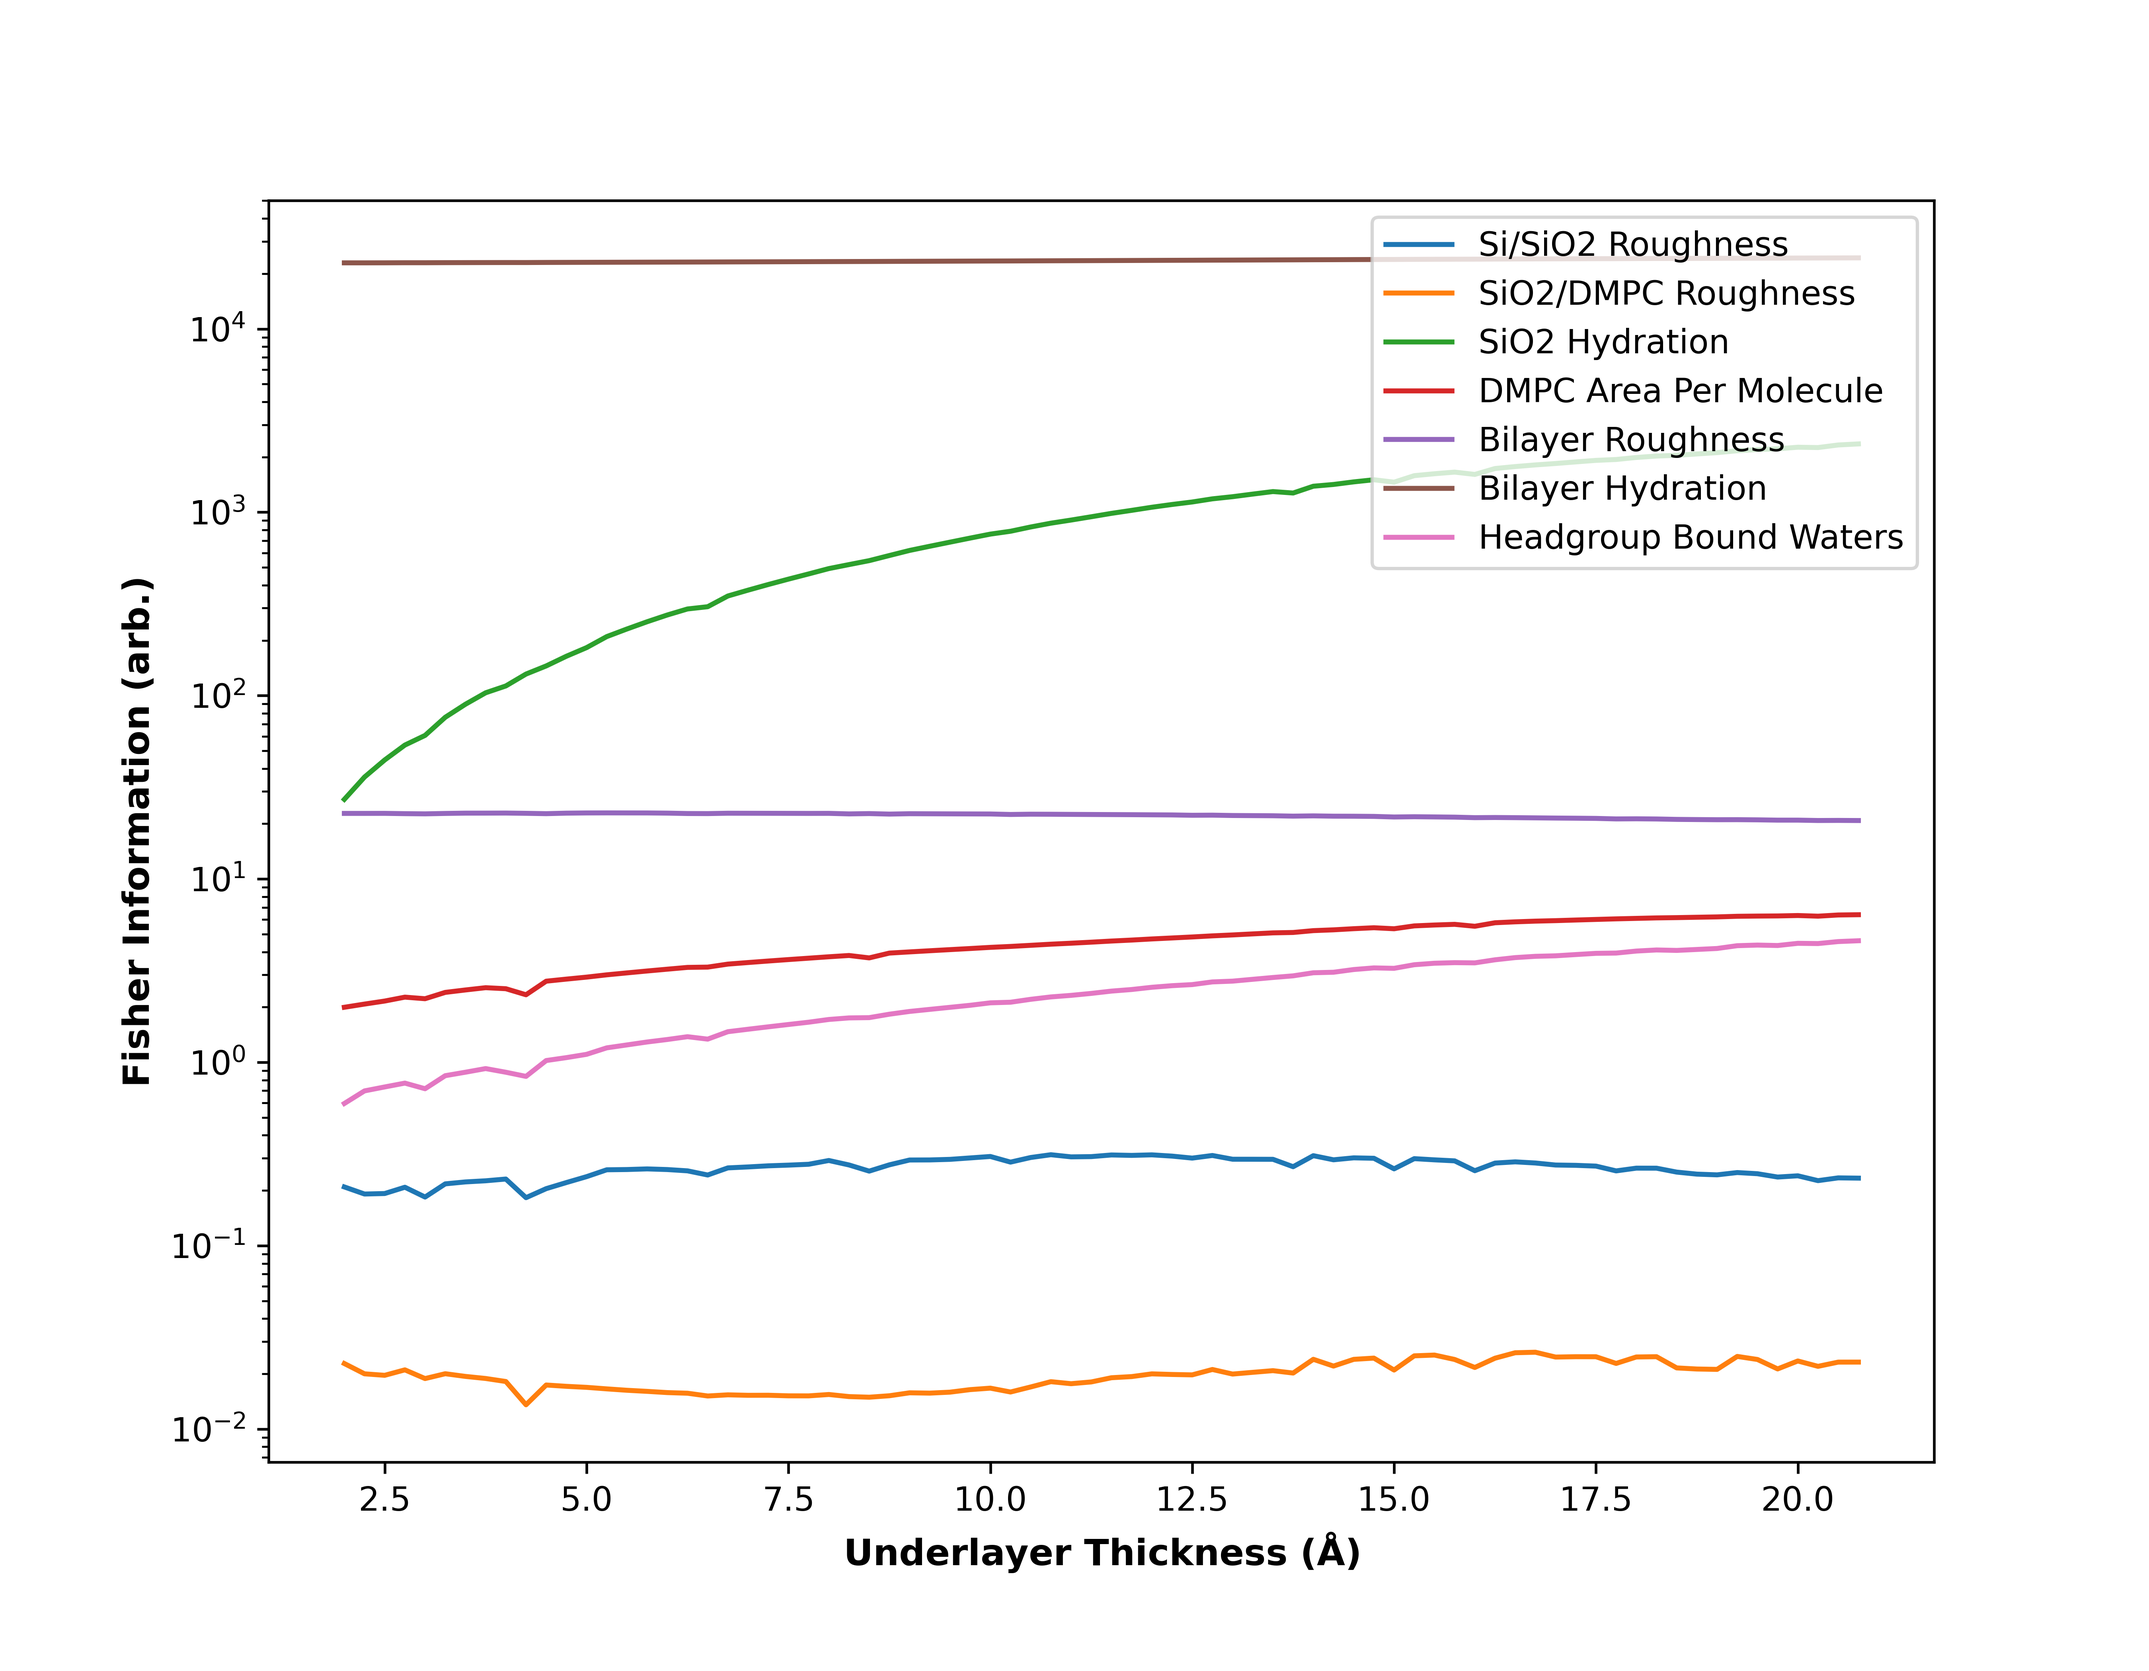
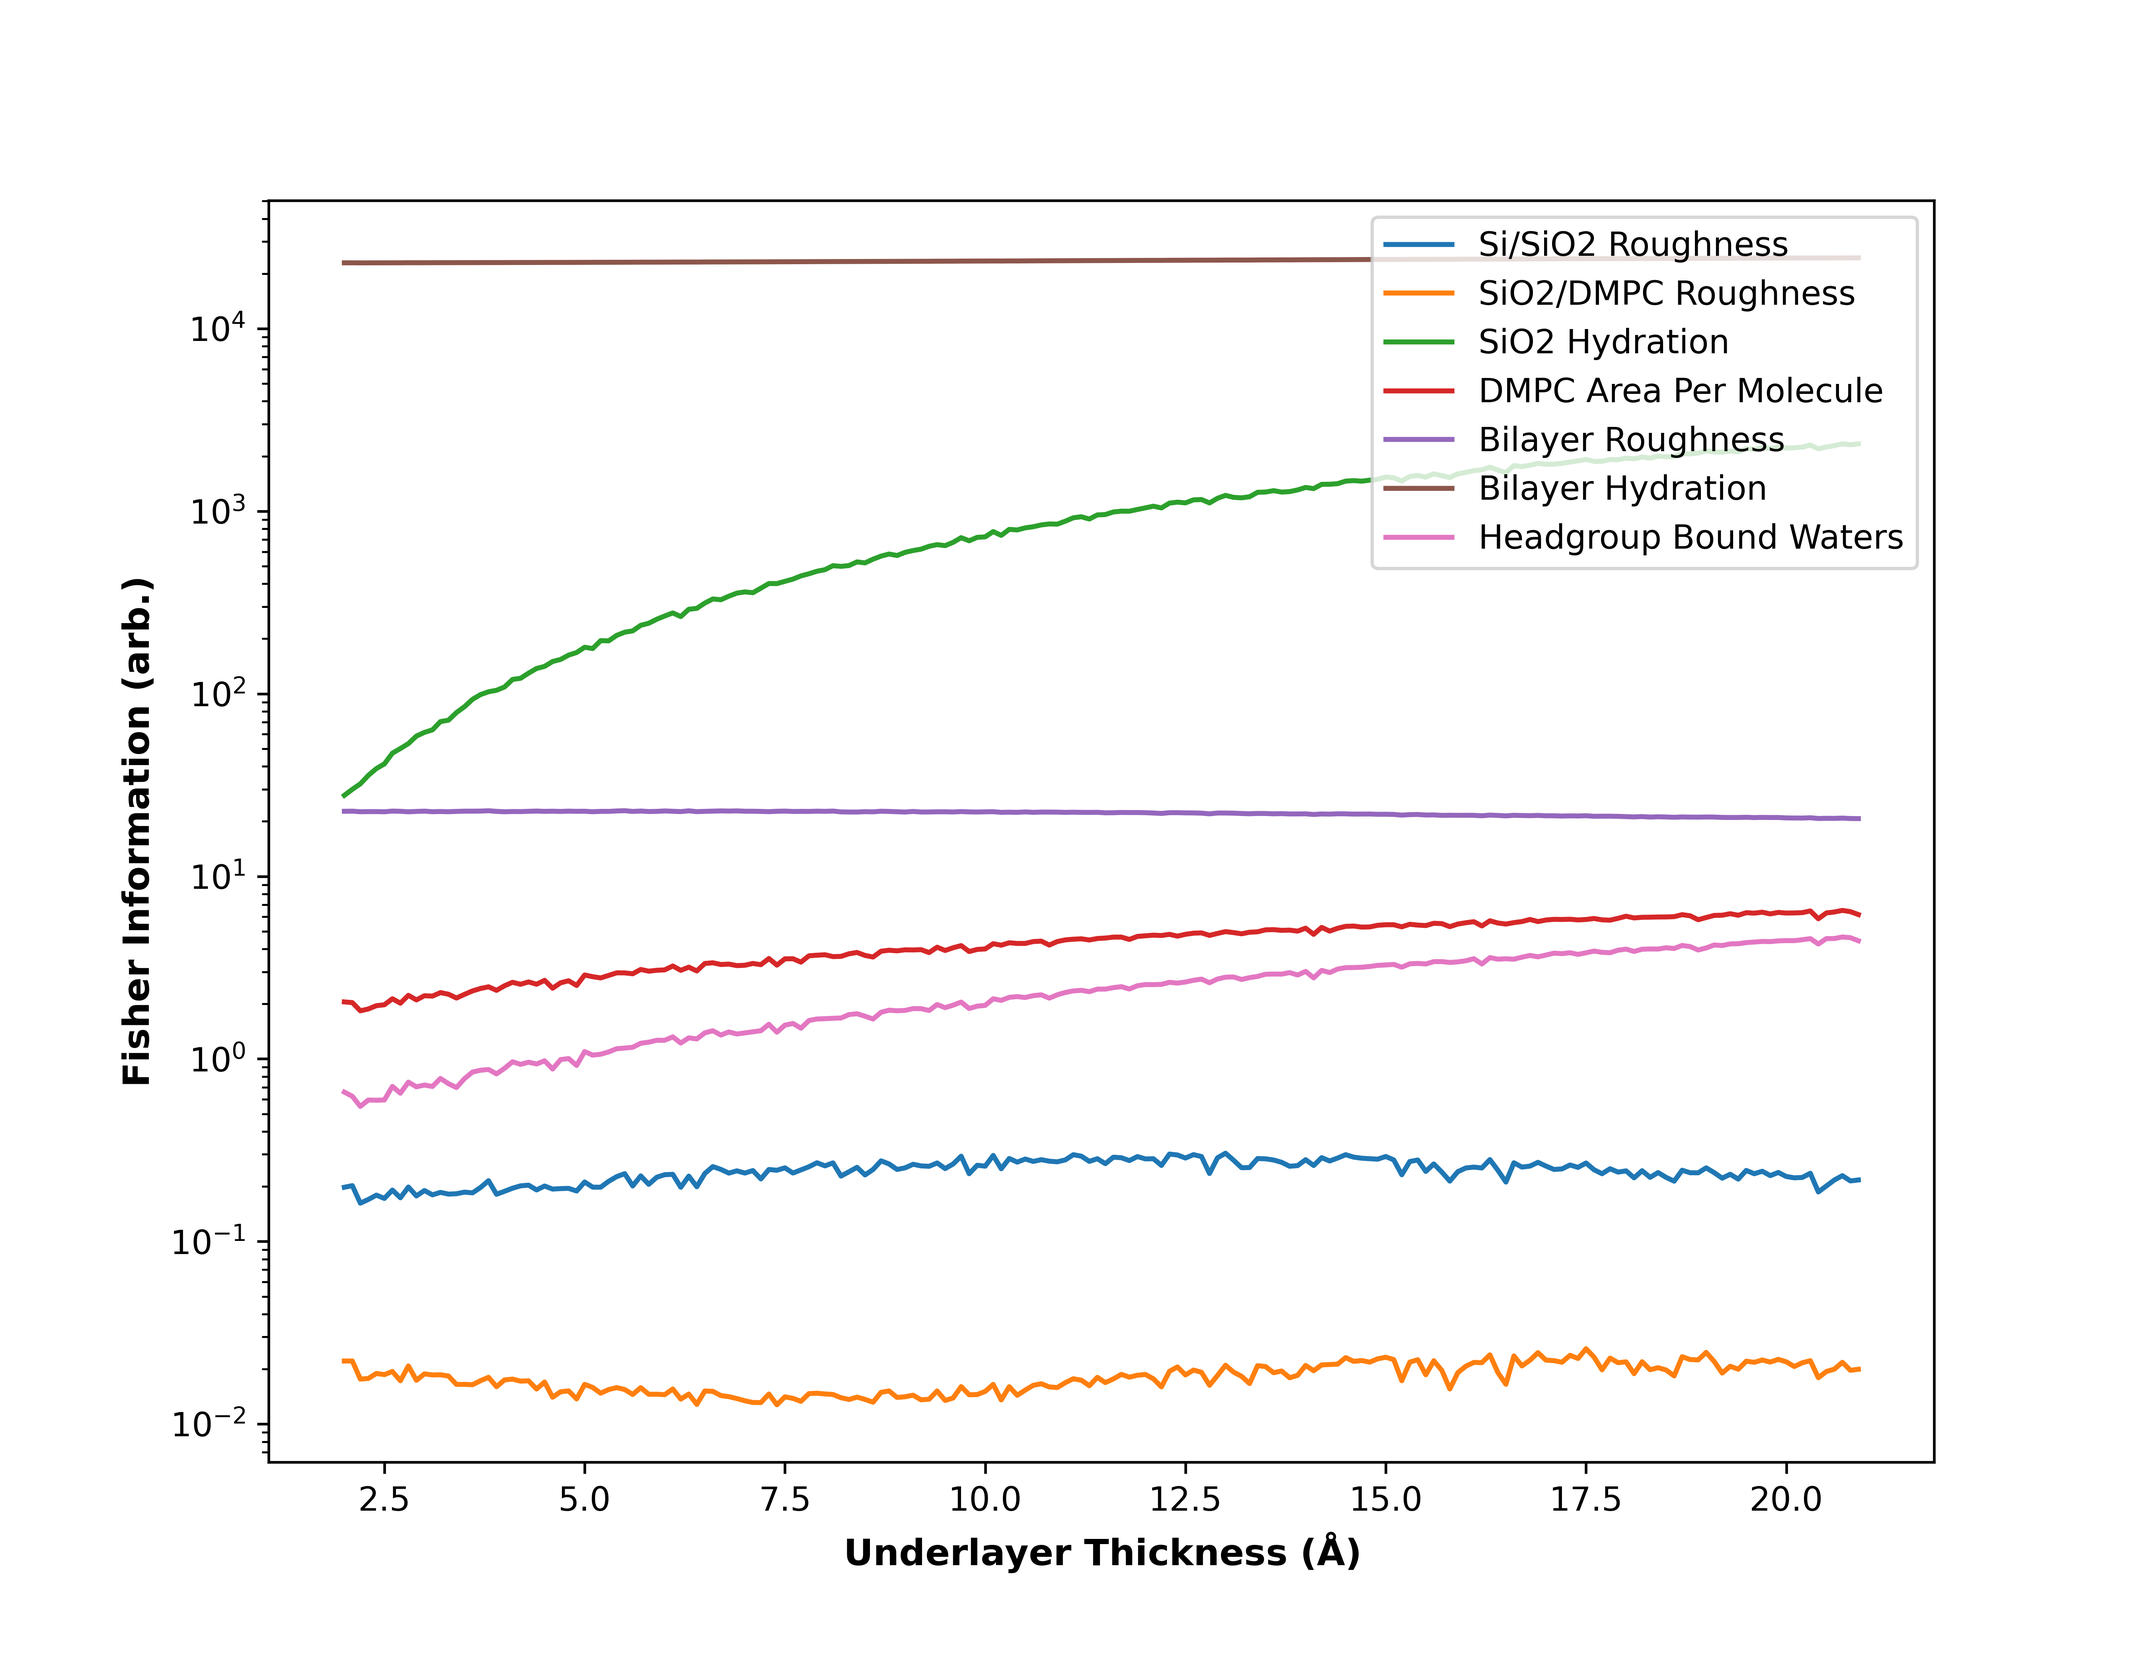
Optimised FIM calculation

diff --git a/fisher-information/experimental_design.py b/fisher-information/experimental_design.py
@@ -34,15 +34,16 @@ def first_contrast_choice(bilayer: Bilayer, contrasts: ArrayLike,
     information = []
     for i, contrast_sld in enumerate(contrasts):
         # Simulate data for the given bilayer model with current contrast SLD.
-        structure = bilayer.using_contrast(contrast_sld)
-        model, data, counts = simulate(structure, angle_times, include_counts=True)
+        sample = bilayer.using_contrast(contrast_sld)
+        model, data, counts = simulate(sample, angle_times, include_counts=True)
 
         # Calculate FIM matrix and record the diagonal elements.
         g = fisher_single_contrast(data.x, xi, counts, model)
         information.append(np.diag(g))
 
         # Display progress.
-        print('>>> {0}/{1}'.format(i+1, len(contrasts)))
+        if i % 50 == 0:
+            print('>>> {0}/{1}'.format(i, len(contrasts)))
 
     # Plot the FIM as a function of contrast SLD.
     save_path = os.path.join(save_path, str(bilayer))
@@ -65,15 +66,15 @@ def second_contrast_choice(bilayer: Bilayer, initial_contrast: float, contrasts:
     xi = bilayer.parameters
 
     # Simulate an experiment using the initial contrast.
-    structure = bilayer.using_contrast(initial_contrast)
-    model_init, data_init, counts_init = simulate(structure, angle_times, include_counts=True)
+    sample = bilayer.using_contrast(initial_contrast)
+    model_init, data_init, counts_init = simulate(sample, angle_times, include_counts=True)
 
     # Iterate over each second contrast SLD in the given array.
     information = []
     for i, contrast_sld in enumerate(contrasts):
         # Simulate data for the bilayer model with current contrast SLD.
-        structure = bilayer.using_contrast(contrast_sld)
-        model_new, data_new, counts_new = simulate(structure, angle_times, include_counts=True)
+        sample = bilayer.using_contrast(contrast_sld)
+        model_new, data_new, counts_new = simulate(sample, angle_times, include_counts=True)
 
         # Combine the data from the initial and second contrasts.
         qs = [data_init.x, data_new.x]
@@ -85,7 +86,8 @@ def second_contrast_choice(bilayer: Bilayer, initial_contrast: float, contrasts:
         information.append(np.diag(g))
 
         # Display progress.
-        print('>>> {0}/{1}'.format(i+1, len(contrasts)))
+        if i % 50 == 0:
+            print('>>> {0}/{1}'.format(i, len(contrasts)))
 
     # Plot the FIM as a function of second contrast SLD.
     save_path = os.path.join(save_path, str(bilayer))
@@ -111,8 +113,8 @@ def first_angle_choice(structure: Callable, angles: ArrayLike, points: int,
         angle_times = {angle: (points, time)}
 
         # Simulate data for the given structure with current angle.
-        structure = vary_structure(structure())
-        model, data, counts = simulate(structure, angle_times, include_counts=True)
+        sample = vary_structure(structure())
+        model, data, counts = simulate(sample, angle_times, include_counts=True)
 
         # Get the parameters of the structure.
         objective = Objective(model, data)
@@ -123,7 +125,8 @@ def first_angle_choice(structure: Callable, angles: ArrayLike, points: int,
         information.append(np.diag(g))
 
         # Display progress.
-        print('>>> {0}/{1}'.format(i+1, len(angles)))
+        if i % 50 == 0:
+            print('>>> {0}/{1}'.format(i, len(angles)))
 
     # Plot the FIM as a function of first angle choice.
     save_path = os.path.join(save_path, structure.__name__)
@@ -168,7 +171,8 @@ def second_angle_choice(structure: Callable, initial_angle_times: AngleTimes,
         information.append(np.diag(g))
 
         # Display progress.
-        print('>>> {0}/{1}'.format(i+1, len(angles)))
+        if i % 50 == 0:
+            print('>>> {0}/{1}'.format(i, len(angles)))
 
     # Plot the FIM as a function of second angle choice.
     save_path = os.path.join(save_path, structure.__name__)
@@ -209,7 +213,8 @@ def underlayer_choice(bilayer: Bilayer, thicknesses: ArrayLike, contrast_sld: fl
         information.append(np.diag(g))
 
         # Display progress.
-        print('>>> {0}/{1}'.format(i+1, len(thicknesses)))
+        if i % 50 == 0:
+            print('>>> {0}/{1}'.format(i, len(thicknesses)))
 
     # Plot the FIM as a function of underlayer thickness.
     save_path = os.path.join(save_path, str(bilayer))
@@ -314,7 +319,8 @@ def confidence_gain(bilayer: Bilayer, initial_contrast: float, new_contrasts: Ar
             heights_new[param].append(heights_initial[param] - heights)
 
         # Display progress.
-        print('>>> {0}/{1}'.format(x+1, len(new_contrasts)))
+        if x % 50 == 0:
+            print('>>> {0}/{1}'.format(x, len(new_contrasts)))
 
     # Plot the reduction in ellipse sizes against contrast SLD.
     save_path = os.path.join(save_path, str(bilayer))
@@ -400,7 +406,8 @@ if __name__ == '__main__':
     bilayer = SymmetricBilayer()
     initial_contrast = 6.36
     contrasts = np.arange(-0.56, 6.35, 0.01)
-    angle_times = {0.7: (70, 10), 2.0: (70, 40)}
+    angle_times = {0.7: (70, 10),
+                   2.0: (70, 40)}
 
     # Investigate how the FIM changes with initial contrast SLD.
     first_contrast_choice(bilayer, contrasts, angle_times, save_path)
@@ -409,7 +416,7 @@ if __name__ == '__main__':
     second_contrast_choice(bilayer, initial_contrast, contrasts, angle_times, save_path)
 
     # Investigate how the FIM changes with SiO2 underlayer thickness.
-    thicknesses = np.arange(2, 21, 0.01)
+    thicknesses = np.arange(2, 21, 0.05)
     underlayer_choice(bilayer, thicknesses, initial_contrast, angle_times, save_path)
 
     from structures import similar_sld_sample_1, similar_sld_sample_2
@@ -419,7 +426,7 @@ if __name__ == '__main__':
     structure = easy_sample
     points = 70
     time = 1
-    angles = np.arange(0.3, 2.3, 0.01)
+    angles = np.arange(0.2, 2.4, 0.01)
 
     # Investigate how the FIM changes with first angle choice.
     first_angle_choice(structure, angles, points, time, save_path)

diff --git a/fisher-information/utils.py b/fisher-information/utils.py
@@ -257,7 +257,7 @@ def vary_structure(structure: Structure, random_init: bool=False, bound_size: fl
     return structure
 
 def fisher_single_contrast(q: ArrayLike, xi: List[Parameter], counts: ArrayLike,
-                           model: ReflectModel) -> ArrayLike:
+                           model: ReflectModel, step: float=0.005) -> ArrayLike:
     """Calculates the FIM matrix for a single `model`.
 
     Args:
@@ -265,6 +265,7 @@ def fisher_single_contrast(q: ArrayLike, xi: List[Parameter], counts: ArrayLike,
         xi (list): varying parameters.
         counts (numpy.ndarray): incident neutron counts for each Q value.
         model (refnx.reflect.ReflectModel): model for calculating gradients.
+        step (float): step size to take when calculating gradient.
 
     Returns:
         numpy.ndarray: FIM matrix for the given model and data.
@@ -273,25 +274,39 @@ def fisher_single_contrast(q: ArrayLike, xi: List[Parameter], counts: ArrayLike,
     n = len(q)
     m = len(xi)
     J = np.zeros((n,m))
+
     # Calculate the gradient of the model reflectivity with every model
     # parameter for every model data point.
-    for i in range(n):
-        for j in range(m):
-            J[i,j] = gradient(model, xi[j], q[i])
+    for i in range(m):
+        parameter = xi[i]
+        old = parameter.value
 
-    r = model(q) # Use model reflectivity values.
-    M = np.diag(counts/r, k=0)
+        # Calculate the model reflectivity the first data point.
+        x1 = parameter.value = old*(1-step)
+        y1 = model(q)
+
+        # Calculate the model reflectivity the second data point.
+        x2 = parameter.value = old*(1+step)
+        y2 = model(q)
+
+        parameter.value = old # Reset the parameter.
+
+        J[:,i] = (y2-y1) / (x2-x1) # Calculate the gradient.
+
+    # Calculate the FIM matrix using the equations from the paper.
+    M = np.diag(counts / model(q), k=0)
     return np.dot(np.dot(J.T, M), J)
 
 def fisher_multiple_contrasts(qs: List[ArrayLike], xi: List[Parameter], counts: List[ArrayLike],
-                              models: List[ReflectModel]) -> ArrayLike:
+                              models: List[ReflectModel], step: float=0.005) -> ArrayLike:
     """Calculates the FIM matrix for multiple `models` containing parameters, `xi`.
 
     Args:
-        qs (list): momentum transfer, Q, values corresponding to each model.
-        xi (list): varying parameters.
+        qs (list): momentum transfer, Q, values for each model.
+        xi (list): varying model parameters.
         counts (list): incident neutron counts corresponding to each Q value.
         models (list): models to calculate gradients with.
+        step (float): step size to take when calculating gradient.
 
     Returns:
         numpy.ndarray: FIM matrix for the given models and data.
@@ -303,43 +318,28 @@ def fisher_multiple_contrasts(qs: List[ArrayLike], xi: List[Parameter], counts: 
 
     # Calculate the gradient of the model reflectivity with every model
     # parameter for every model data point.
-    r_all = []
-    start = 0
-    for q, model in list(zip(qs, models)):
-        for i in range(len(q)):
-            for j in range(m):
-                J[start+i,j] = gradient(model, xi[j], q[i])
+    for i in range(m):
+        parameter = xi[i]
+        old = parameter.value
 
-        start += len(q)
-        r_all.append(model(q)) # Use model reflectivity values.
+        # Calculate the reflectance for each model for the first data point.
+        x1 = parameter.value = old*(1-step)
+        y1 = np.concatenate([model(q) for q, model in list(zip(qs, models))])
 
-    r = np.concatenate(r_all)
+        # Calculate the reflectance for each model for the second data point.
+        x2 = parameter.value = old*(1+step)
+        y2 = np.concatenate([model(q) for q, model in list(zip(qs, models))])
+
+        parameter.value = old # Reset the parameter.
+
+        J[:,i] = (y2-y1) / (x2-x1) # Calculate the gradient.
+
+    # Calculate the reflectance for each model for the measured/simulated Q values.
+    r = np.concatenate([model(q) for q, model in list(zip(qs, models))])
+
+    # Calculate the FIM matrix using the equations from the paper.
     M = np.diag(np.concatenate(counts) / r, k=0)
     return np.dot(np.dot(J.T, M), J)
-
-def gradient(model: ReflectModel, parameter: Parameter, q_point: float, step: float=0.005) -> float:
-    """Calculate two-point gradient of model reflectivity with model parameter.
-
-    Args:
-        model (refnx.reflect.ReflectModel): model to calculate gradient.
-        parameter (refnx.analysis.Parameter): parameter to vary.
-        q_point (float): Q value of the r point to calculate the gradient of.
-        step (float): step size to take when calculating the gradient.
-
-    Returns:
-        float: two-point gradient.
-
-    """
-    old, step = parameter.value, parameter.value*step # 0.5% step by default.
-
-    x1 = parameter.value = old - step # First point
-    y1 = model(q_point) # Get new r value with altered model.
-
-    x2 = parameter.value = old + step # Second point
-    y2 = model(q_point)
-
-    parameter.value = old # Reset parameter
-    return (y2-y1) / (x2-x1) # Return the gradient
 
 def get_ground_truths(structure: Structure) -> ArrayLike:
     """Gets the `stucture`'s true values for the layers' thicknesses and SLDs.

diff --git a/demo/underlayer.py b/demo/underlayer.py
@@ -79,12 +79,12 @@ class Bilayer:
         return 'symmetric_bilayer'
 
 # Number of points and time to simulate for each angle.
-angle_times = {2.3: (30, 4)} # Angle: (Points, Time)
+angle_times = {2.3: (70, 4)} # Angle: (Points, Time)
 
 contrast_sld = 6.35 # SLD of contrast being simulated.
 
 # Underlayer thicknesses to calculate the FIM over.
-thicknesses = np.arange(2, 21, 0.25)
+thicknesses = np.arange(2, 21, 0.1)
 
 # Investigate how the FIM changes with underlayer thickness.
 underlayer_choice(Bilayer(), thicknesses, contrast_sld, angle_times, './results')

diff --git a/demo/contrast.py b/demo/contrast.py
@@ -87,11 +87,11 @@ class Bilayer():
         return 'asymmetric_bilayer'
 
 # Number of points and time to simulate for each angle.
-angle_times = {0.7: (30, 10),
-               2.0: (30, 40)} # Angle: (Points, Time)
+angle_times = {0.7: (70, 10),
+               2.0: (70, 40)} # Angle: (Points, Time)
 
 # Contrast SLDs to calculate the FIM over.
-contrasts = np.arange(-0.56, 6.35, 0.1)
+contrasts = np.arange(-0.56, 6.35, 0.05)
 
 # Investigate how the FIM changes with initial contrast SLD.
 first_contrast_choice(Bilayer(), contrasts, angle_times, './results')

diff --git a/demo/angle.py b/demo/angle.py
@@ -18,7 +18,7 @@ points = 70 # Number of data points to simulate.
 time = 1 # Time to use for simulation.
 
 # Angles (in degrees) to calculate the FIM over.
-angles = np.arange(0.3, 2.4, 0.05)
+angles = np.arange(0.25, 2.5, 0.01)
 
 # Investigate how the FIM changes with first angle choice.
 first_angle_choice(similar_sld_sample, angles, points, time, './results')
